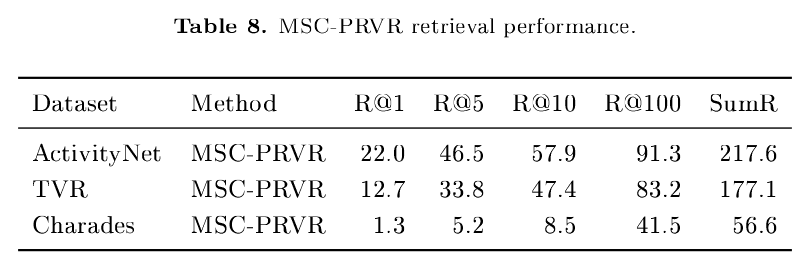
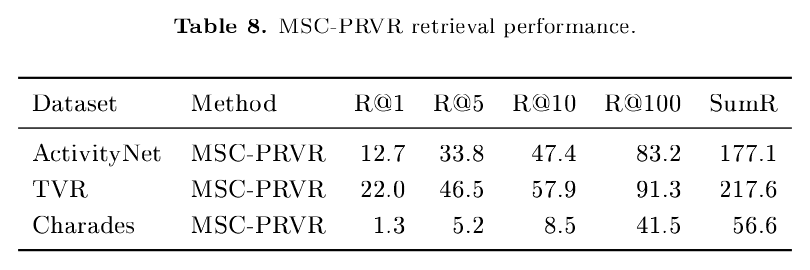
Correct MSC-PRVR dataset results

diff --git a/individual_tables.tex b/individual_tables.tex
@@ -121,8 +121,8 @@ SPOT & 1.7 & 6.1 & 10.6 & 44.7 & 63.1 \\
 \toprule
 Dataset & Method & R@1 & R@5 & R@10 & R@100 & SumR \\
 \midrule
-ActivityNet & MSC-PRVR & 22.0 & 46.5 & 57.9 & 91.3 & 217.6 \\
-TVR & MSC-PRVR & 12.7 & 33.8 & 47.4 & 83.2 & 177.1 \\
+ActivityNet & MSC-PRVR & 12.7 & 33.8 & 47.4 & 83.2 & 177.1 \\
+TVR & MSC-PRVR & 22.0 & 46.5 & 57.9 & 91.3 & 217.6 \\
 Charades & MSC-PRVR & 1.3 & 5.2 & 8.5 & 41.5 & 56.6 \\
 \bottomrule
 \end{tabular}
